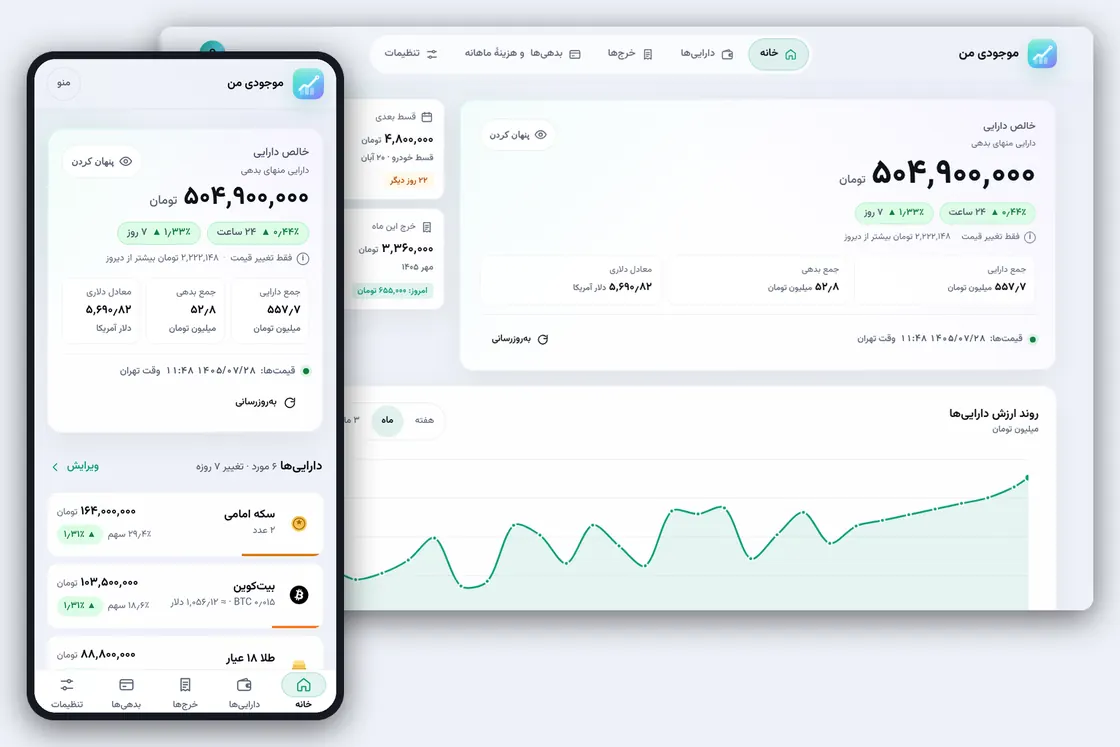
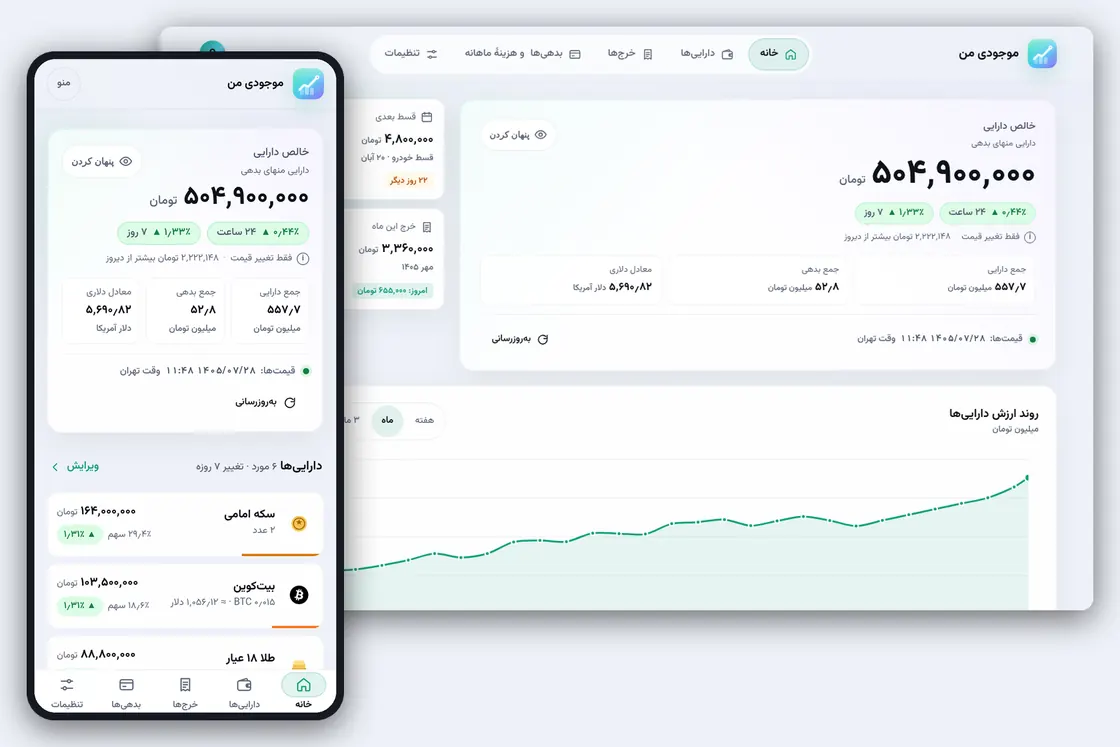
Landing v2: steadier demo chart in the hero shots (seed curve), regenerated hero + phone WebPs

Changed region(s): [[0.3125, 0.7082, 0.5938, 0.8005], [0.5938, 0.6774, 0.7812, 0.739]]

diff --git a/scripts/seed_demo.py b/scripts/seed_demo.py
@@ -9,6 +9,7 @@ from __future__ import annotations
 
 import json
 import os
+import math
 import random
 import sys
 from datetime import datetime, timedelta, timezone
@@ -86,7 +87,8 @@ def _curve(hours_ago: int, rng: random.Random) -> float:
         return t7 + (t1 - t7) * (1 - (hours_ago - 24) / 144)
     span = 365 * 24 - 168
     base = 470_000_000 + (t7 - 470_000_000) * (1 - (hours_ago - 168) / span)
-    return base * (1 + rng.uniform(-0.008, 0.008))
+    # steady rise for the landing hero: a slow, small wave plus very little noise (no zigzag in the month view)
+    return base * (1 + 0.003 * math.sin(hours_ago / 170) + rng.uniform(-0.0012, 0.0012))
 
 
 def seed() -> None:
